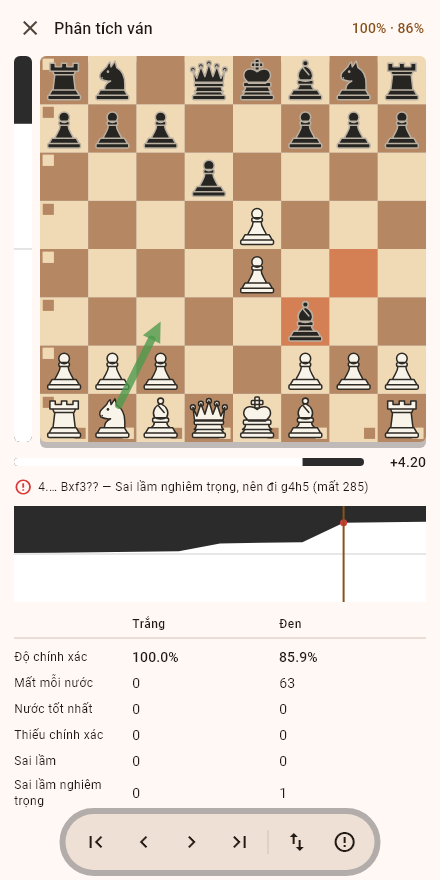
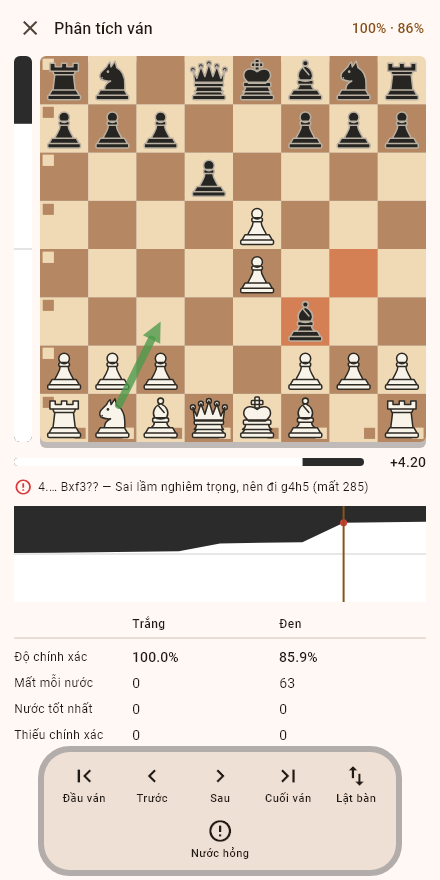
Phat hanh 1.8.0: them muc khai cuoc vao landing page

Changed region(s): [[0.0295, 0.8284, 0.9159, 1.0]]

diff --git a/index.html b/index.html
@@ -176,6 +176,7 @@
       <a href="#loi-cua-ban">Lỗi của bạn</a>
       <a href="#tan-cuoc">Tàn cuộc</a>
       <a href="#phan-tich">Phân tích</a>
+      <a href="#khai-cuoc">Khai cuộc</a>
       <a href="#lich-su">Lịch sử</a>
       <a href="#ngon-ngu">Ngôn ngữ</a>
       <a href="#giao-dien">Giao diện</a>
@@ -197,7 +198,7 @@
         Không tài khoản, không quảng cáo, không thu thập dữ liệu — mở lên là chơi.
       </p>
       <div class="badges">
-        <span class="badge">Phiên bản 1.7 · beta</span>
+        <span class="badge">Phiên bản 1.8 · beta</span>
         <span class="badge">Không quảng cáo</span>
         <span class="badge">Bàn cờ 3D</span>
         <span class="badge">Tiếng Việt &amp; English</span>
@@ -210,7 +211,7 @@
         <a class="btn btn-ghost" href="#huong-dan">Cách cài đặt</a>
       </div>
       <p class="btn-note">
-        Phiên bản 1.7.0 · 23 MB · Android 5.0 trở lên ·
+        Phiên bản 1.8.0 · 23 MB · Android 5.0 trở lên ·
         chưa có trên Google Play nên phát hành bằng tệp APK.
       </p>
     </div>
@@ -444,7 +445,7 @@
 
 <section id="phan-tich">
   <div class="wrap">
-    <h2>Đánh xong biết mình sai ở đâu</h2>
+    <h2>Đánh xong biết mình sai ở đâu — và vì sao</h2>
     <p class="sub">
       Máy chấm lại từng nước rồi chỉ thẳng nước hỏng nhất — không phải tự đoán.
     </p>
@@ -498,6 +499,46 @@
           đều có test tự động canh, không phải kiểm bằng mắt rồi quên.
         </p>
       </div>
+    </div>
+  </div>
+</section>
+
+<section id="khai-cuoc">
+  <div class="wrap">
+    <h2>Ván cờ của bạn có tên tuổi</h2>
+    <p class="sub">
+      53 khai cuộc hay gặp — để gọi tên, để máy đi tử tế, và để luyện.
+    </p>
+    <div class="grid cols-2">
+      <div>
+        <div class="card" style="margin-bottom:14px">
+          <h3>App gọi tên ván bạn đang chơi</h3>
+          <p>
+            Đi <b>e4 c5</b> là hiện <em>Phòng thủ Sicilia</em>. Đi tiếp tới nước
+            năm thì thành <em>Sicilia, biến Najdorf</em>. Bạn không còn đẩy quân
+            ngẫu nhiên — bạn đang chơi một khai cuộc có tên.
+          </p>
+        </div>
+        <div class="card" style="margin-bottom:14px">
+          <h3>Máy đi khai cuộc tử tế</h3>
+          <p>
+            Không phải để nó mạnh hơn. Máy tính toán độ sâu hạn chế đi khai cuộc
+            rất nhạt và lặp lại, ván nào cũng như ván nào. Có sách thì mỗi ván
+            một khai cuộc khác, và đều là những khai cuộc thật.
+          </p>
+        </div>
+        <div class="card">
+          <h3>Đi trật không bị gọi là sai</h3>
+          <p>
+            Nước sách chỉ là nước sách, không phải nước duy nhất đúng. App nói
+            "biến này không đi như vậy" rồi để bạn thử lại. Không mất gì cả.
+          </p>
+        </div>
+      </div>
+      <figure>
+        <img src="anh/khai-cuoc.png" alt="Bảng chọn khai cuộc và màn hình luyện khai cuộc Sicilia biến Najdorf">
+        <figcaption>Chọn bên cầm quân trước — cùng một biến, cầm Trắng hay Đen là hai bài học khác nhau.</figcaption>
+      </figure>
     </div>
   </div>
 </section>
@@ -569,6 +610,7 @@
           <tr><td>Máy nghĩ nền, không đơ giao diện</td><td class="y">Có</td><td class="y">Có</td><td class="n">Không</td></tr>
           <tr><td>3000 bài tập chiến thuật</td><td class="y">Có</td><td class="y">Có</td><td class="y">Có</td></tr>
           <tr><td>Luyện tàn cuộc, 4 dạng</td><td class="y">Có</td><td class="y">Có</td><td class="y">Có</td></tr>
+          <tr><td>Luyện khai cuộc, 53 khai cuộc</td><td class="y">Có</td><td class="y">Có</td><td class="y">Có</td></tr>
           <tr><td>Tự báo khi có bản mới</td><td class="y">Có</td><td class="n">Không</td><td class="n">Không</td></tr>
           <tr><td>Đồng hồ thi đấu, 7 thể thức</td><td class="y">Có</td><td class="y">Có</td><td class="y">Có</td></tr>
           <tr><td>Âm thanh và rung phản hồi</td><td class="y">Có</td><td class="p">Chỉ âm thanh</td><td class="p">Chỉ âm thanh</td></tr>
